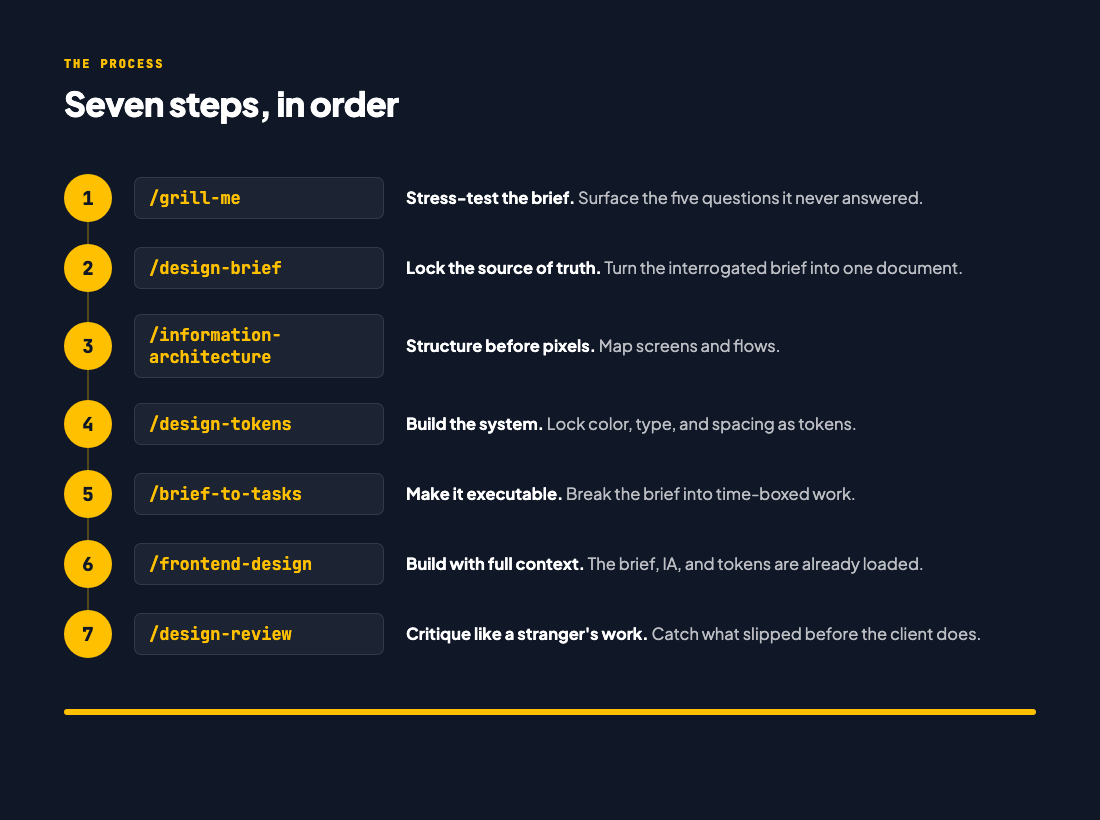
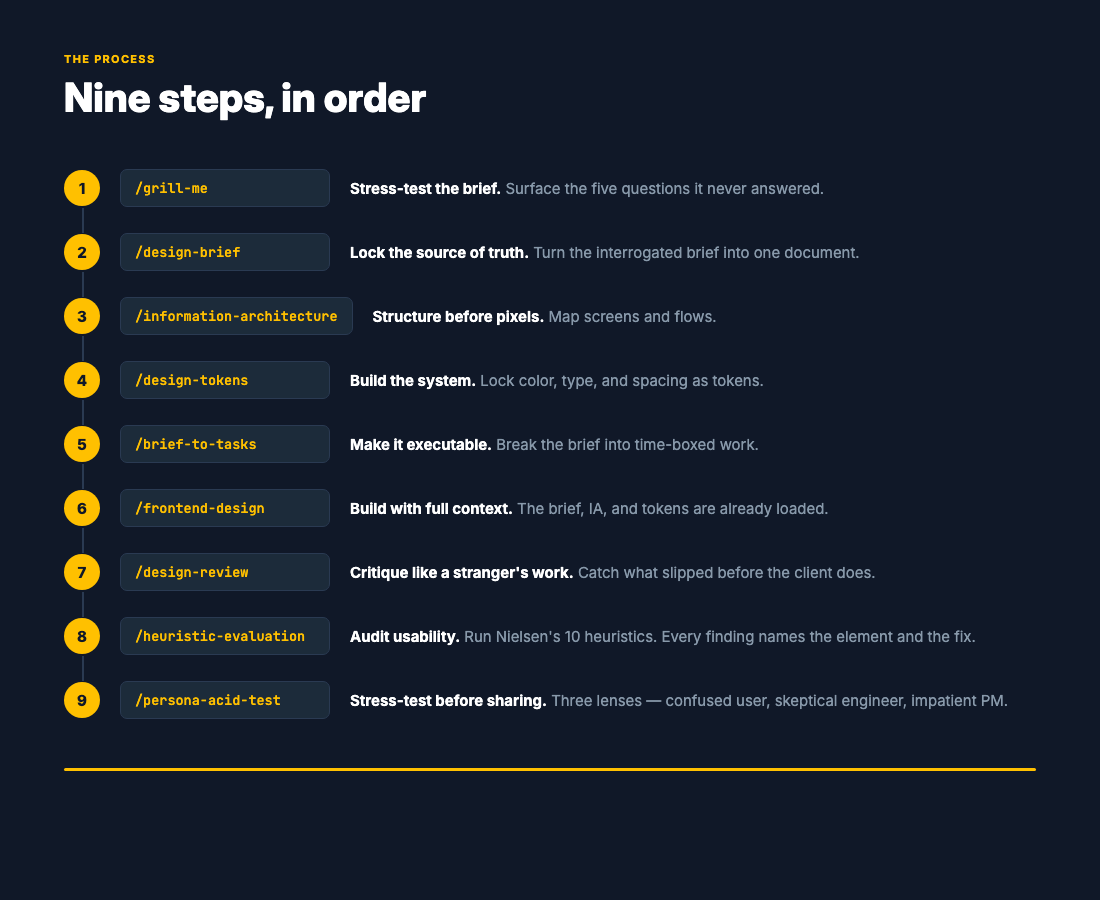
docs(readme): update to nine-step process, add skills 8 and 9
Badge, all prose references, and install script updated from seven to
nine. flow.png regenerated with /heuristic-evaluation and
/persona-acid-test added as steps 8 and 9.

Claude-Session: https://claude.ai/code/session_01LWEWGGP1AHJ1UePUKKe3Hs

diff --git a/README.md b/README.md
@@ -3,7 +3,7 @@
 <p align="center">
   <img src="https://img.shields.io/badge/license-MIT-101828?style=flat-square&labelColor=FFC000" alt="MIT License">
   <img src="https://img.shields.io/badge/built%20with-Claude-101828?style=flat-square&labelColor=FFC000" alt="Built with Claude">
-  <img src="https://img.shields.io/badge/skills-7-101828?style=flat-square&labelColor=FFC000" alt="7 skills">
+  <img src="https://img.shields.io/badge/skills-9-101828?style=flat-square&labelColor=FFC000" alt="9 skills">
   <img src="https://img.shields.io/badge/interfaces-Chat%20%C2%B7%20Cowork%20%C2%B7%20Code-101828?style=flat-square&labelColor=FFC000" alt="Works across Chat, Cowork, Code">
   <img src="https://img.shields.io/badge/for-UI%2FUX%20designers-101828?style=flat-square&labelColor=FFC000" alt="For UI/UX designers">
 </p>
@@ -12,9 +12,9 @@
 
 A working repository for designers who use Claude as a collaborator. Skills, principles, project templates, and a career vault. Not a pile of prompts to paste, a system to work inside.
 
-> **New here?** Jump to [Install](#install) to get the seven skills running in two minutes, or read [Why this exists](#why-this-exists) first.
+> **New here?** Jump to [Install](#install) to get the nine skills running in two minutes, or read [Why this exists](#why-this-exists) first.
 
-Most designers use Claude like a vending machine: paste a request, take whatever drops out. This repo is the opposite. You download it, brief Claude once through a working contract, and then run a seven-step design process where every step builds on the last. The output stops being generic the moment Claude knows your project, your market, and your constraints.
+Most designers use Claude like a vending machine: paste a request, take whatever drops out. This repo is the opposite. You download it, brief Claude once through a working contract, and then run a nine-step design process where every step builds on the last. The output stops being generic the moment Claude knows your project, your market, and your constraints.
 
 Built for the [Claude for UI/UX Designers](https://ostad.app) course on Ostad, with Bangladesh-market design as the worked example. You do not need the course to use the repo.
 
@@ -28,9 +28,9 @@ The designers who stay valuable are the ones who bring what Claude structurally 
 
 ---
 
-## The seven-step process
+## The nine-step process
 
-![The seven-step process](assets/flow.png)
+![The nine-step process](assets/flow.png)
 
 Run them in order on any project. Skip a step and the next one does that step's work badly.
 
@@ -46,7 +46,7 @@ claude-for-designers/
 │   ├── design-taste.md        taste principles for designers using AI
 │   ├── anti-ai-slop.md        patterns to refuse to ship
 │   └── bd-defaults.md         market context block (swap for your market)
-├── skills/                the capability layer: the seven commands
+├── skills/                the capability layer: the nine commands
 ├── projects/              where work happens, one folder per project
 │   └── edubridge/             the worked example, brief through built screen
 └── career-vault/          positioning, portfolio stories, interview prep
@@ -62,21 +62,21 @@ Pick the Claude interface you use. The files are the same everywhere; only the i
 
 ### Claude Code (the Desktop App's Code tab, or a terminal)
 
-You only need this from Class 6. The seven skills live in `skills/`. To turn them into slash commands, open a terminal in your unzipped (or cloned) repo folder and run:
+You only need this from Class 6. The nine skills live in `skills/`. To turn them into slash commands, open a terminal in your unzipped (or cloned) repo folder and run:
 
 ```bash
 mkdir -p ~/.claude/skills
-for f in grill-me design-brief information-architecture design-tokens brief-to-tasks frontend-design design-review; do
+for f in grill-me design-brief information-architecture design-tokens brief-to-tasks frontend-design design-review heuristic-evaluation persona-acid-test; do
   mkdir -p ~/.claude/skills/$f
   cp skills/$f.md ~/.claude/skills/$f/SKILL.md
 done
 ```
 
-Restart Claude Code, type `/`, and the seven commands appear. Prefer Git over the ZIP? Run `git clone https://github.com/mshadmanrahman/claude-for-designers.git` first, then the loop. Not comfortable in a terminal? You do not need it; the Chat path below works without one.
+Restart Claude Code, type `/`, and the nine commands appear. Prefer Git over the ZIP? Run `git clone https://github.com/mshadmanrahman/claude-for-designers.git` first, then the loop. Not comfortable in a terminal? You do not need it; the Chat path below works without one.
 
 ### Claude Cowork (Desktop App, Cowork tab)
 
-Open the Cowork tab, go to Settings, Plugins, Upload plugin, and point it at this repo's `skills/` folder. The seven skills become slash commands.
+Open the Cowork tab, go to Settings, Plugins, Upload plugin, and point it at this repo's `skills/` folder. The nine skills become slash commands.
 
 ### Claude (Chat, on claude.ai or the Desktop App)
 
@@ -101,7 +101,7 @@ cp -r projects/edubridge projects/your-project
 cd projects/your-project
 ```
 
-Replace the brief, run `/grill-me`, and work down the seven steps. The folder is the process, not just the output of it.
+Replace the brief, run `/grill-me`, and work down the nine steps. The folder is the process, not just the output of it.
 
 ---
 
